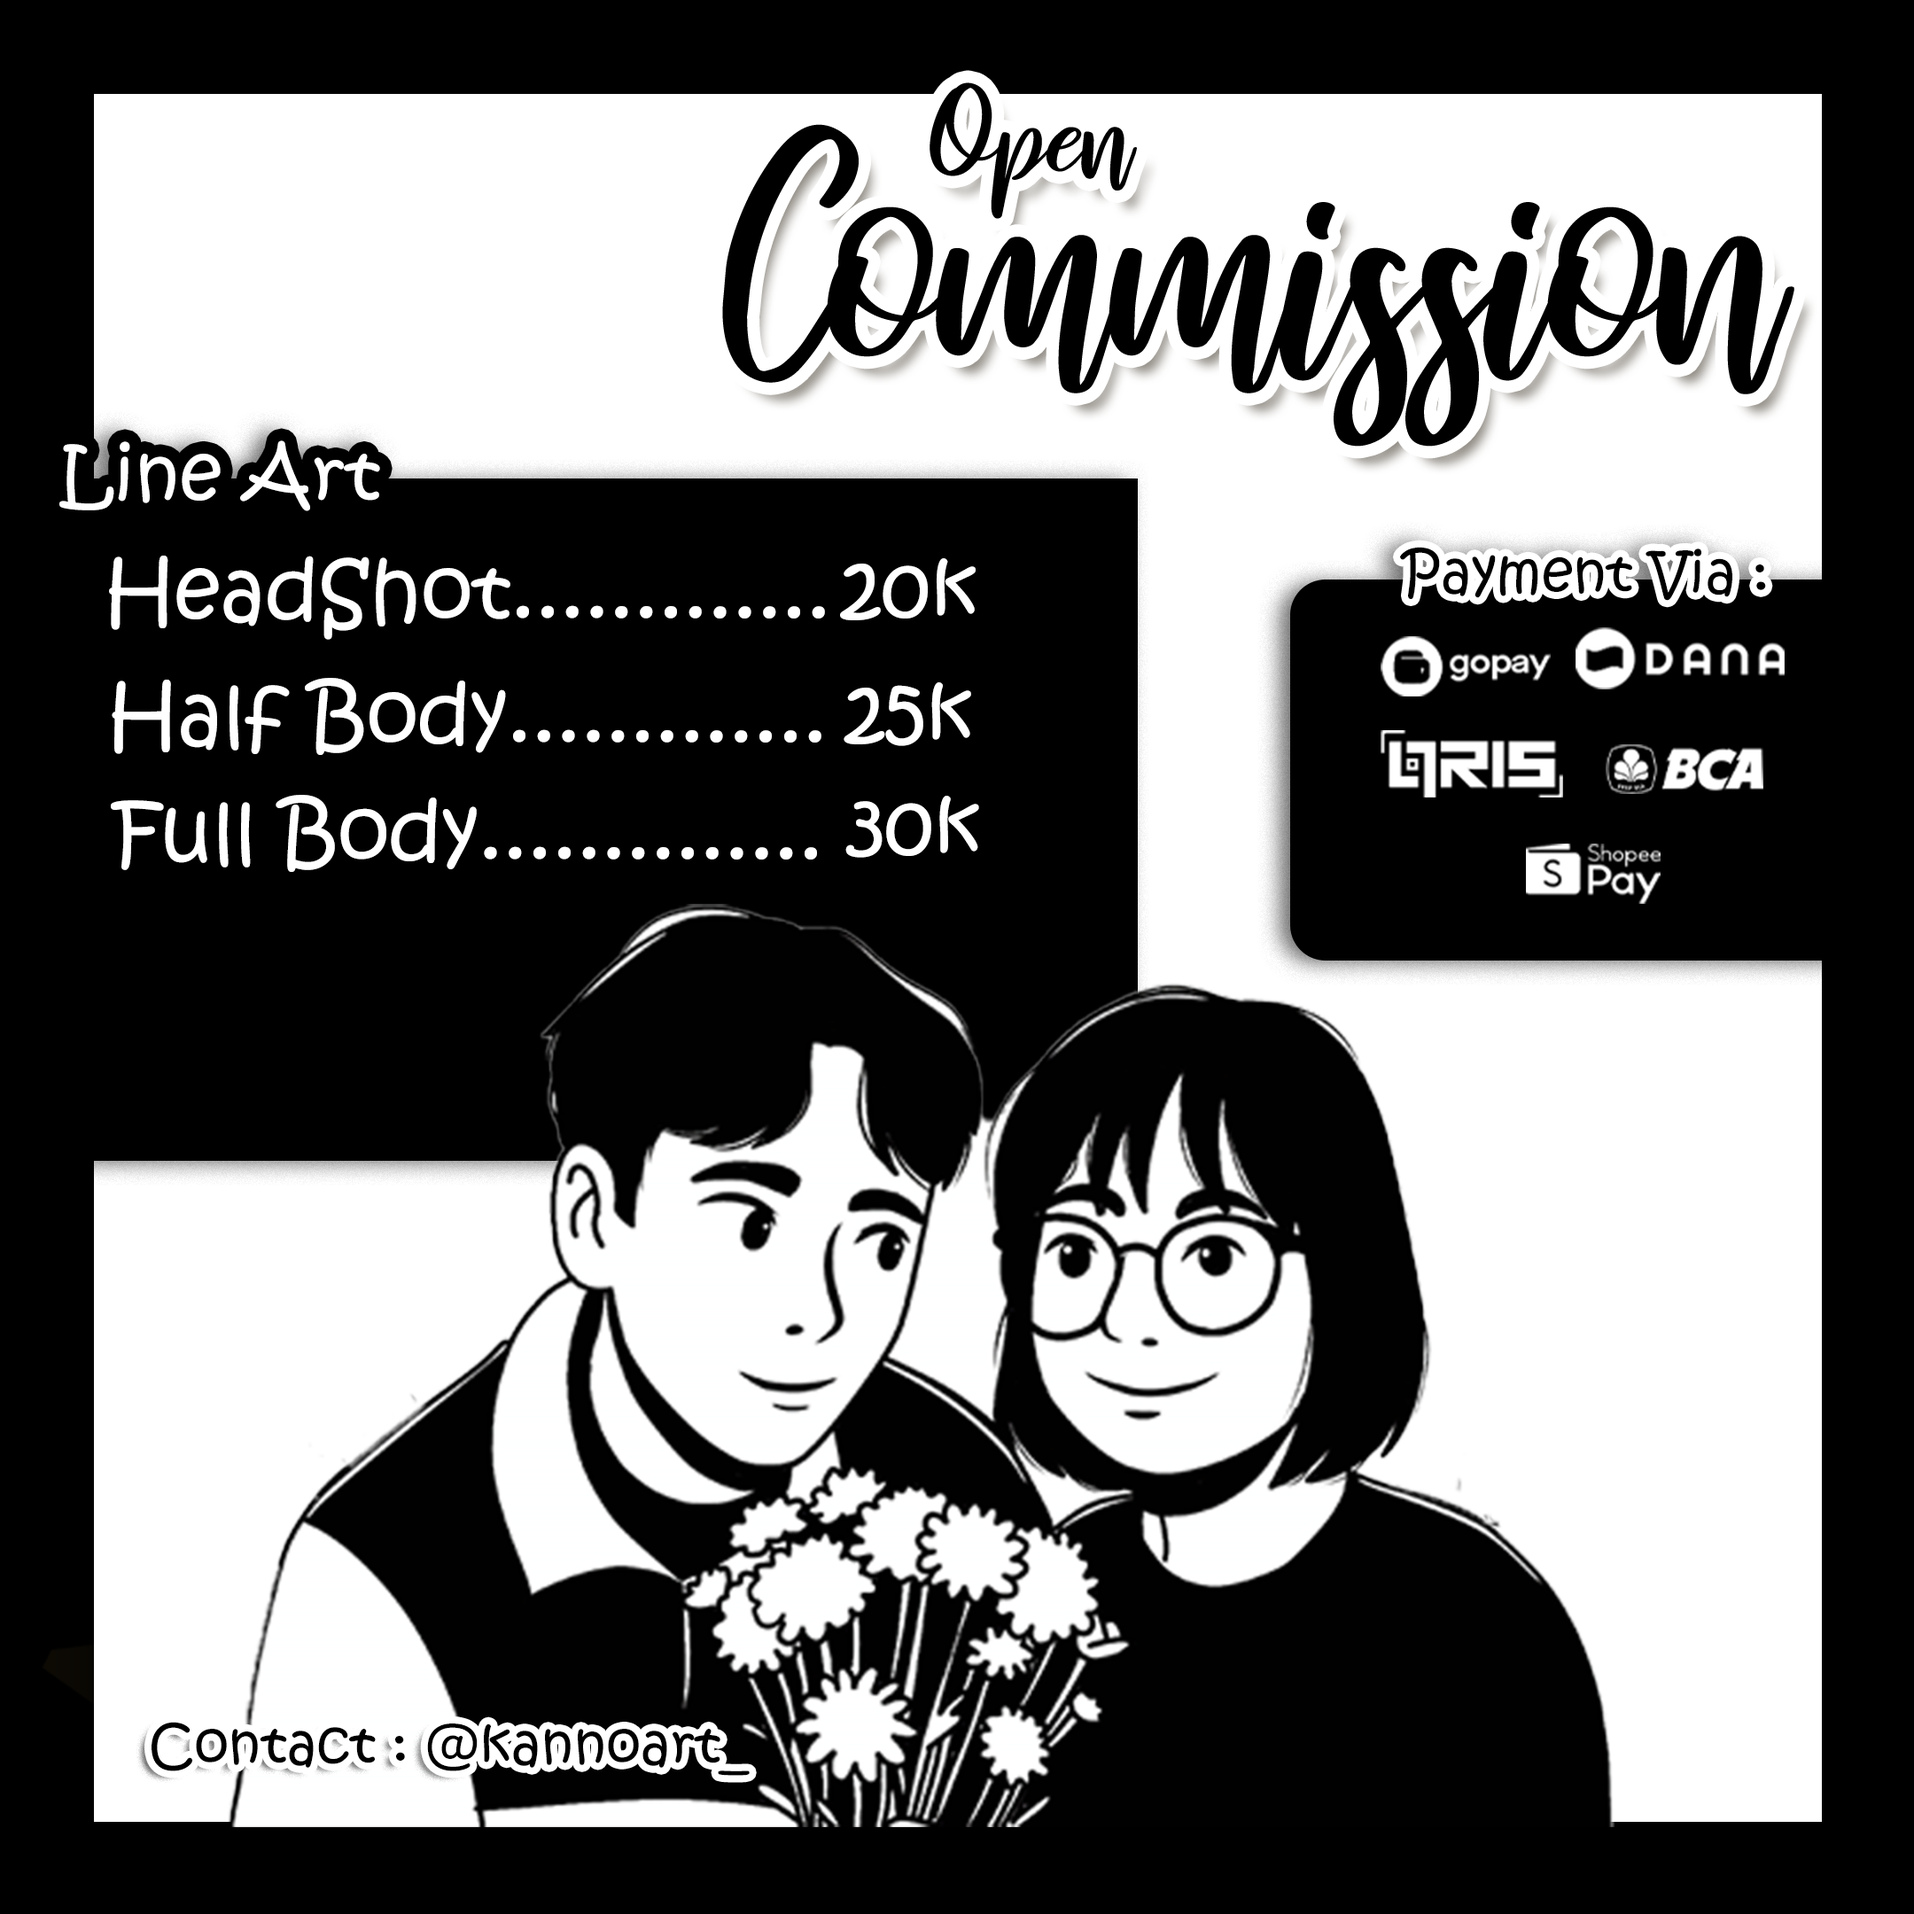
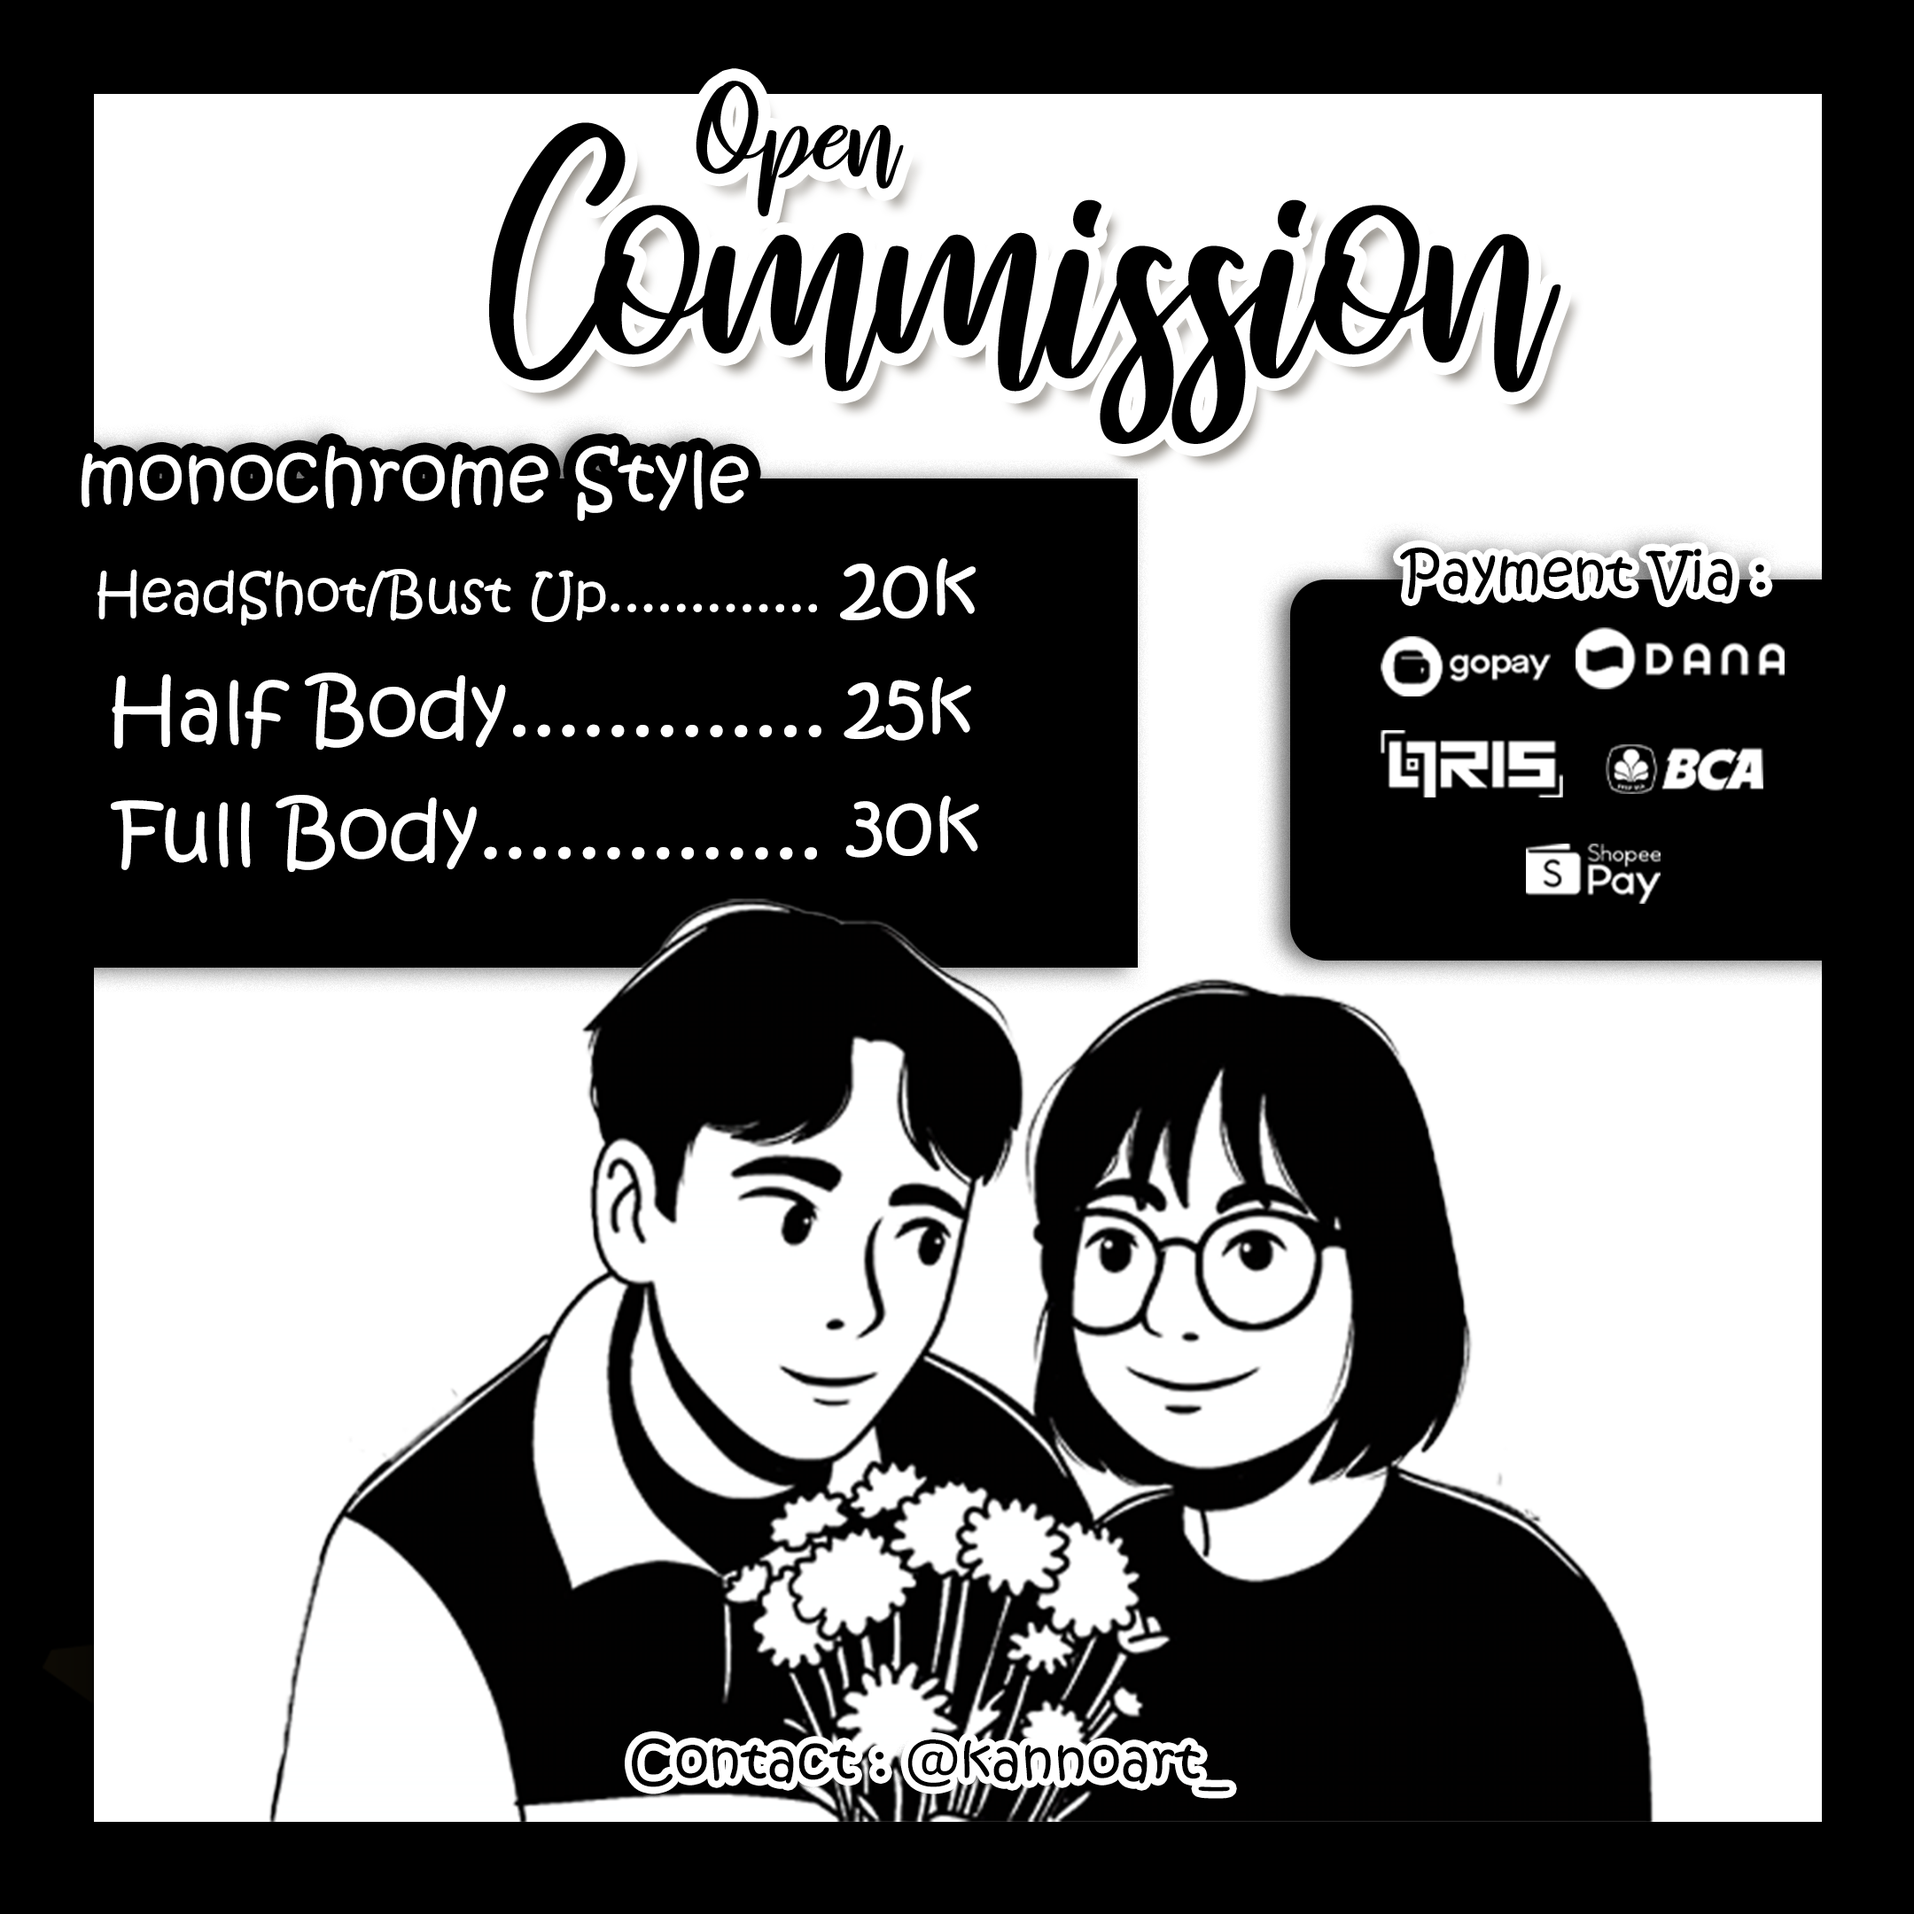
katalog 2

diff --git a/src/app/katalog/page.js b/src/app/katalog/page.js
@@ -26,7 +26,7 @@ export default function KatalogPage() {
   // Data katalog art
   const artCatalog = {
     id: 'art',
-    title: 'Katalog Art',
+    title: 'Simpel Art',
     images: [
       '/img/katalog/art/1@2x.png',
       '/img/katalog/art/4@2x.png'
@@ -36,7 +36,7 @@ export default function KatalogPage() {
   // Data katalog chibi
   const chibiCatalog = {
     id: 'chibi',
-    title: 'Katalog Chibi',
+    title: 'Simpel Chibi',
     images: [
       '/img/katalog/chibi/2@2x.png',
       '/img/katalog/chibi/4@2x.png'
@@ -46,7 +46,7 @@ export default function KatalogPage() {
   // Data katalog line art
   const lineArtCatalog = {
     id: 'lineart',
-    title: 'Katalog Line Art',
+    title: 'monocrome style',
     images: [
       '/img/katalog/lineart/5.png',
       '/img/katalog/lineart/6.png'
